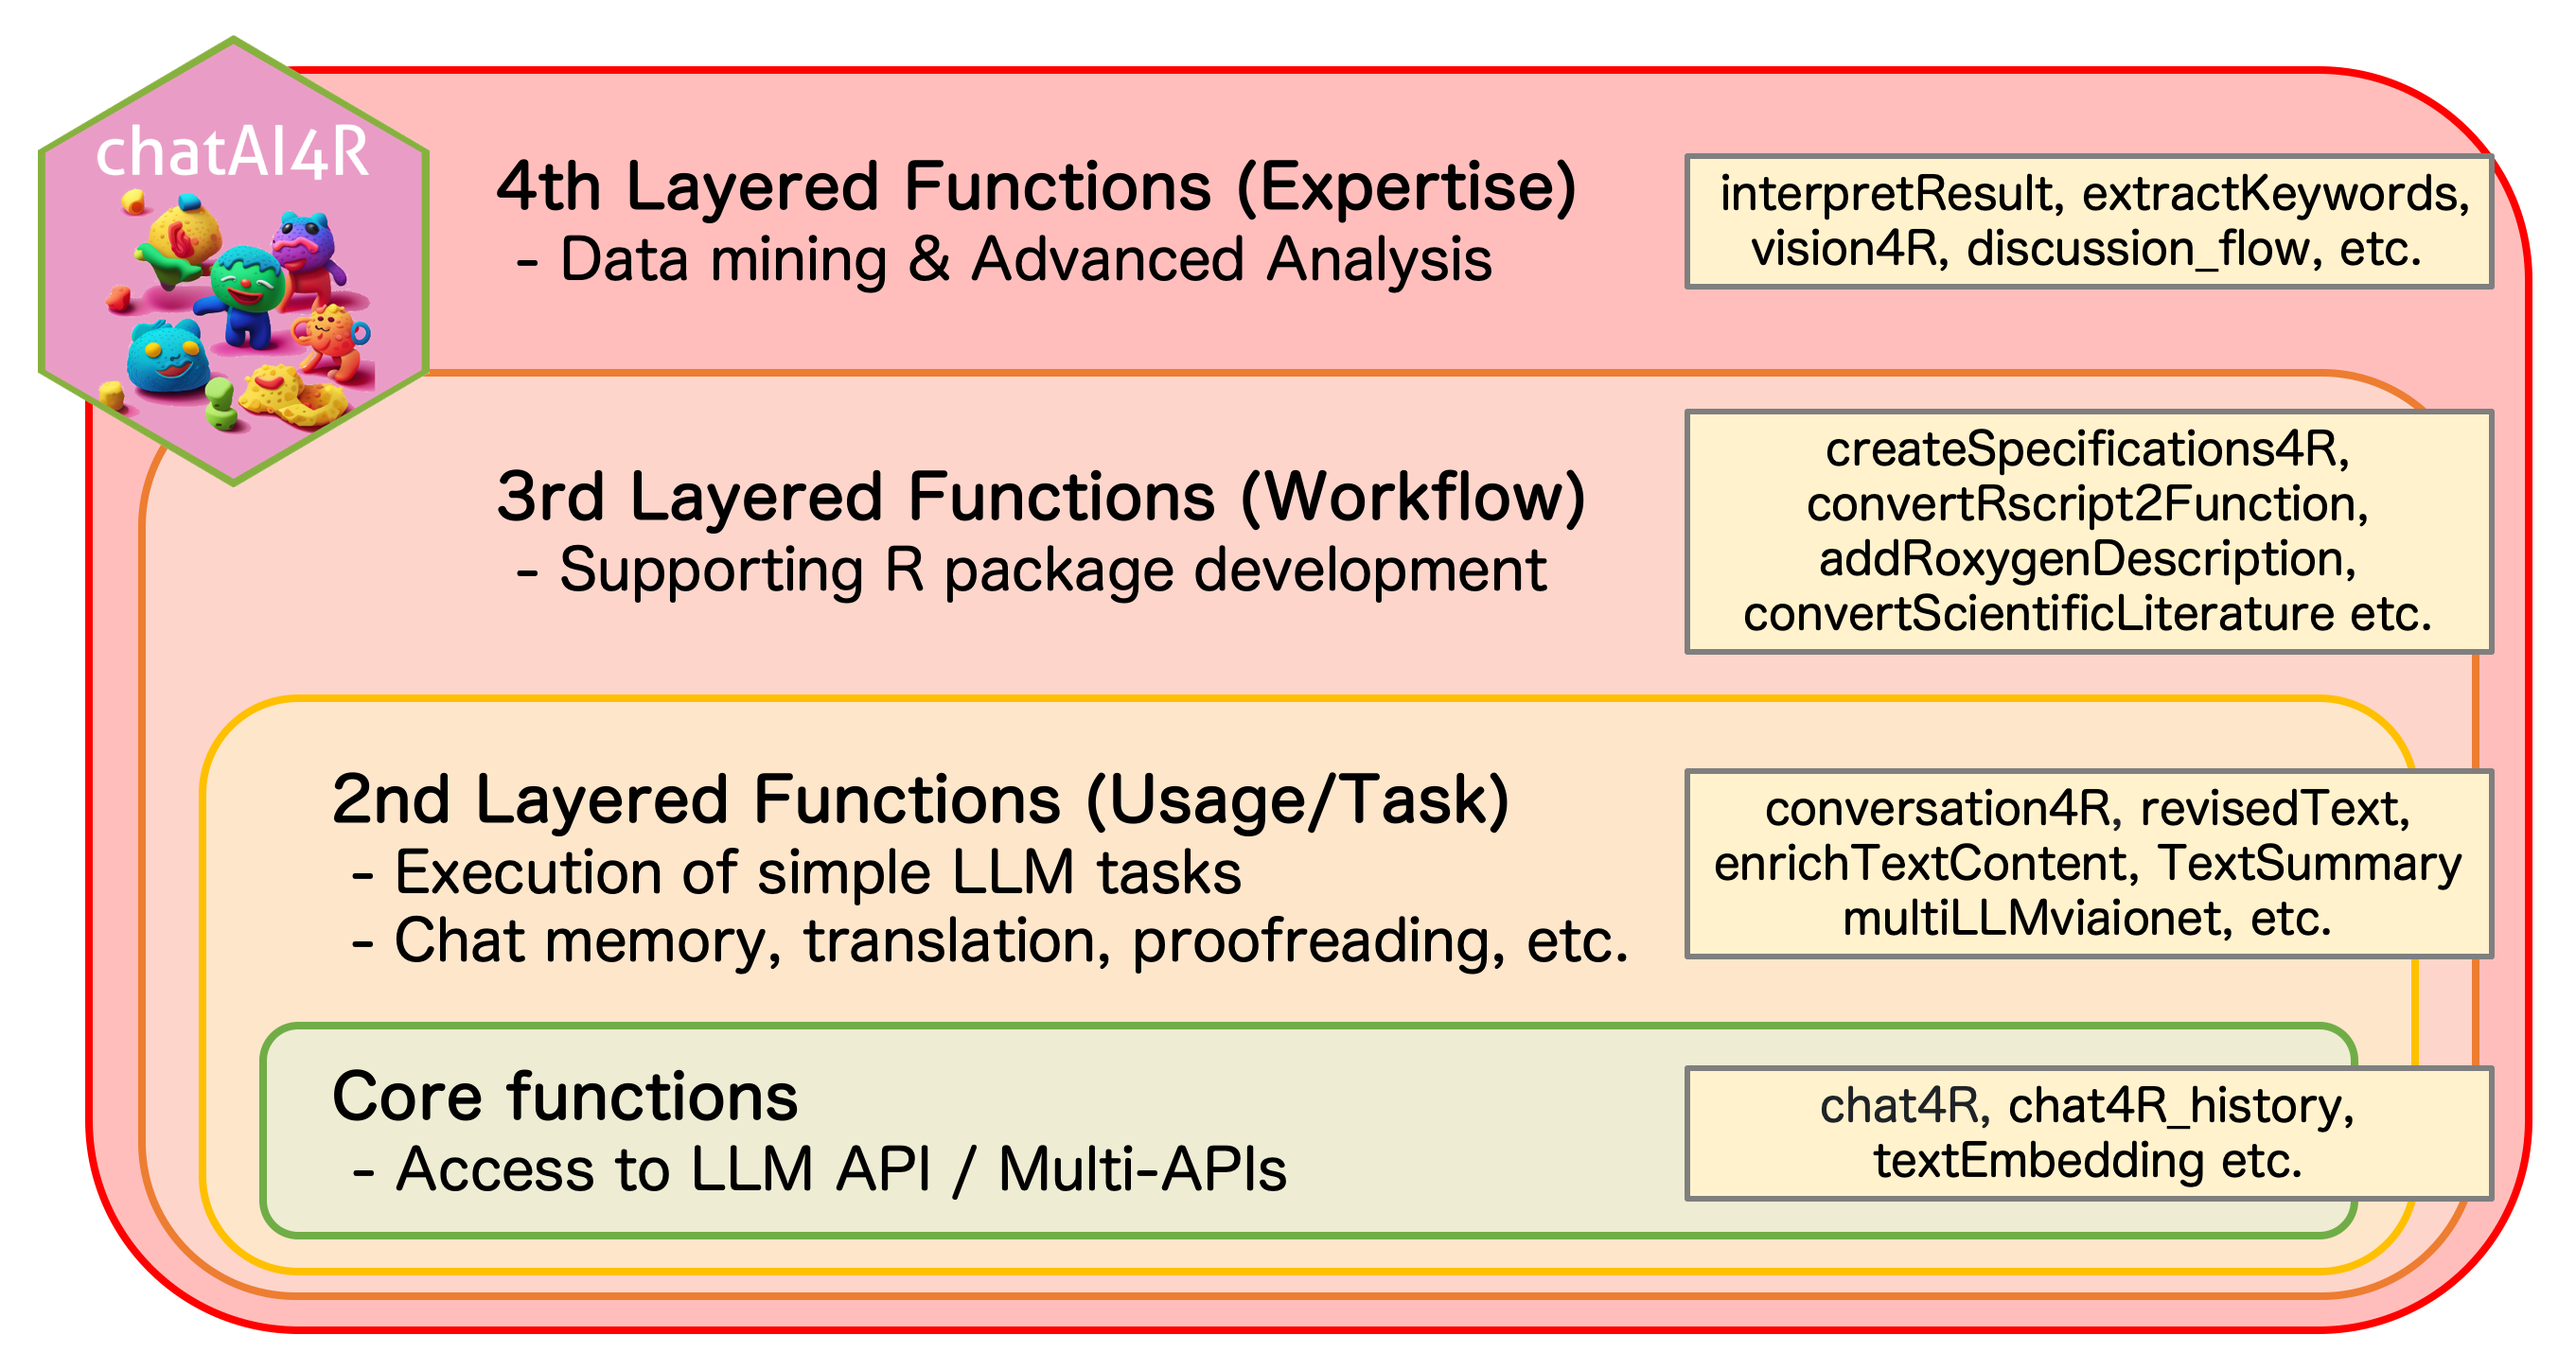
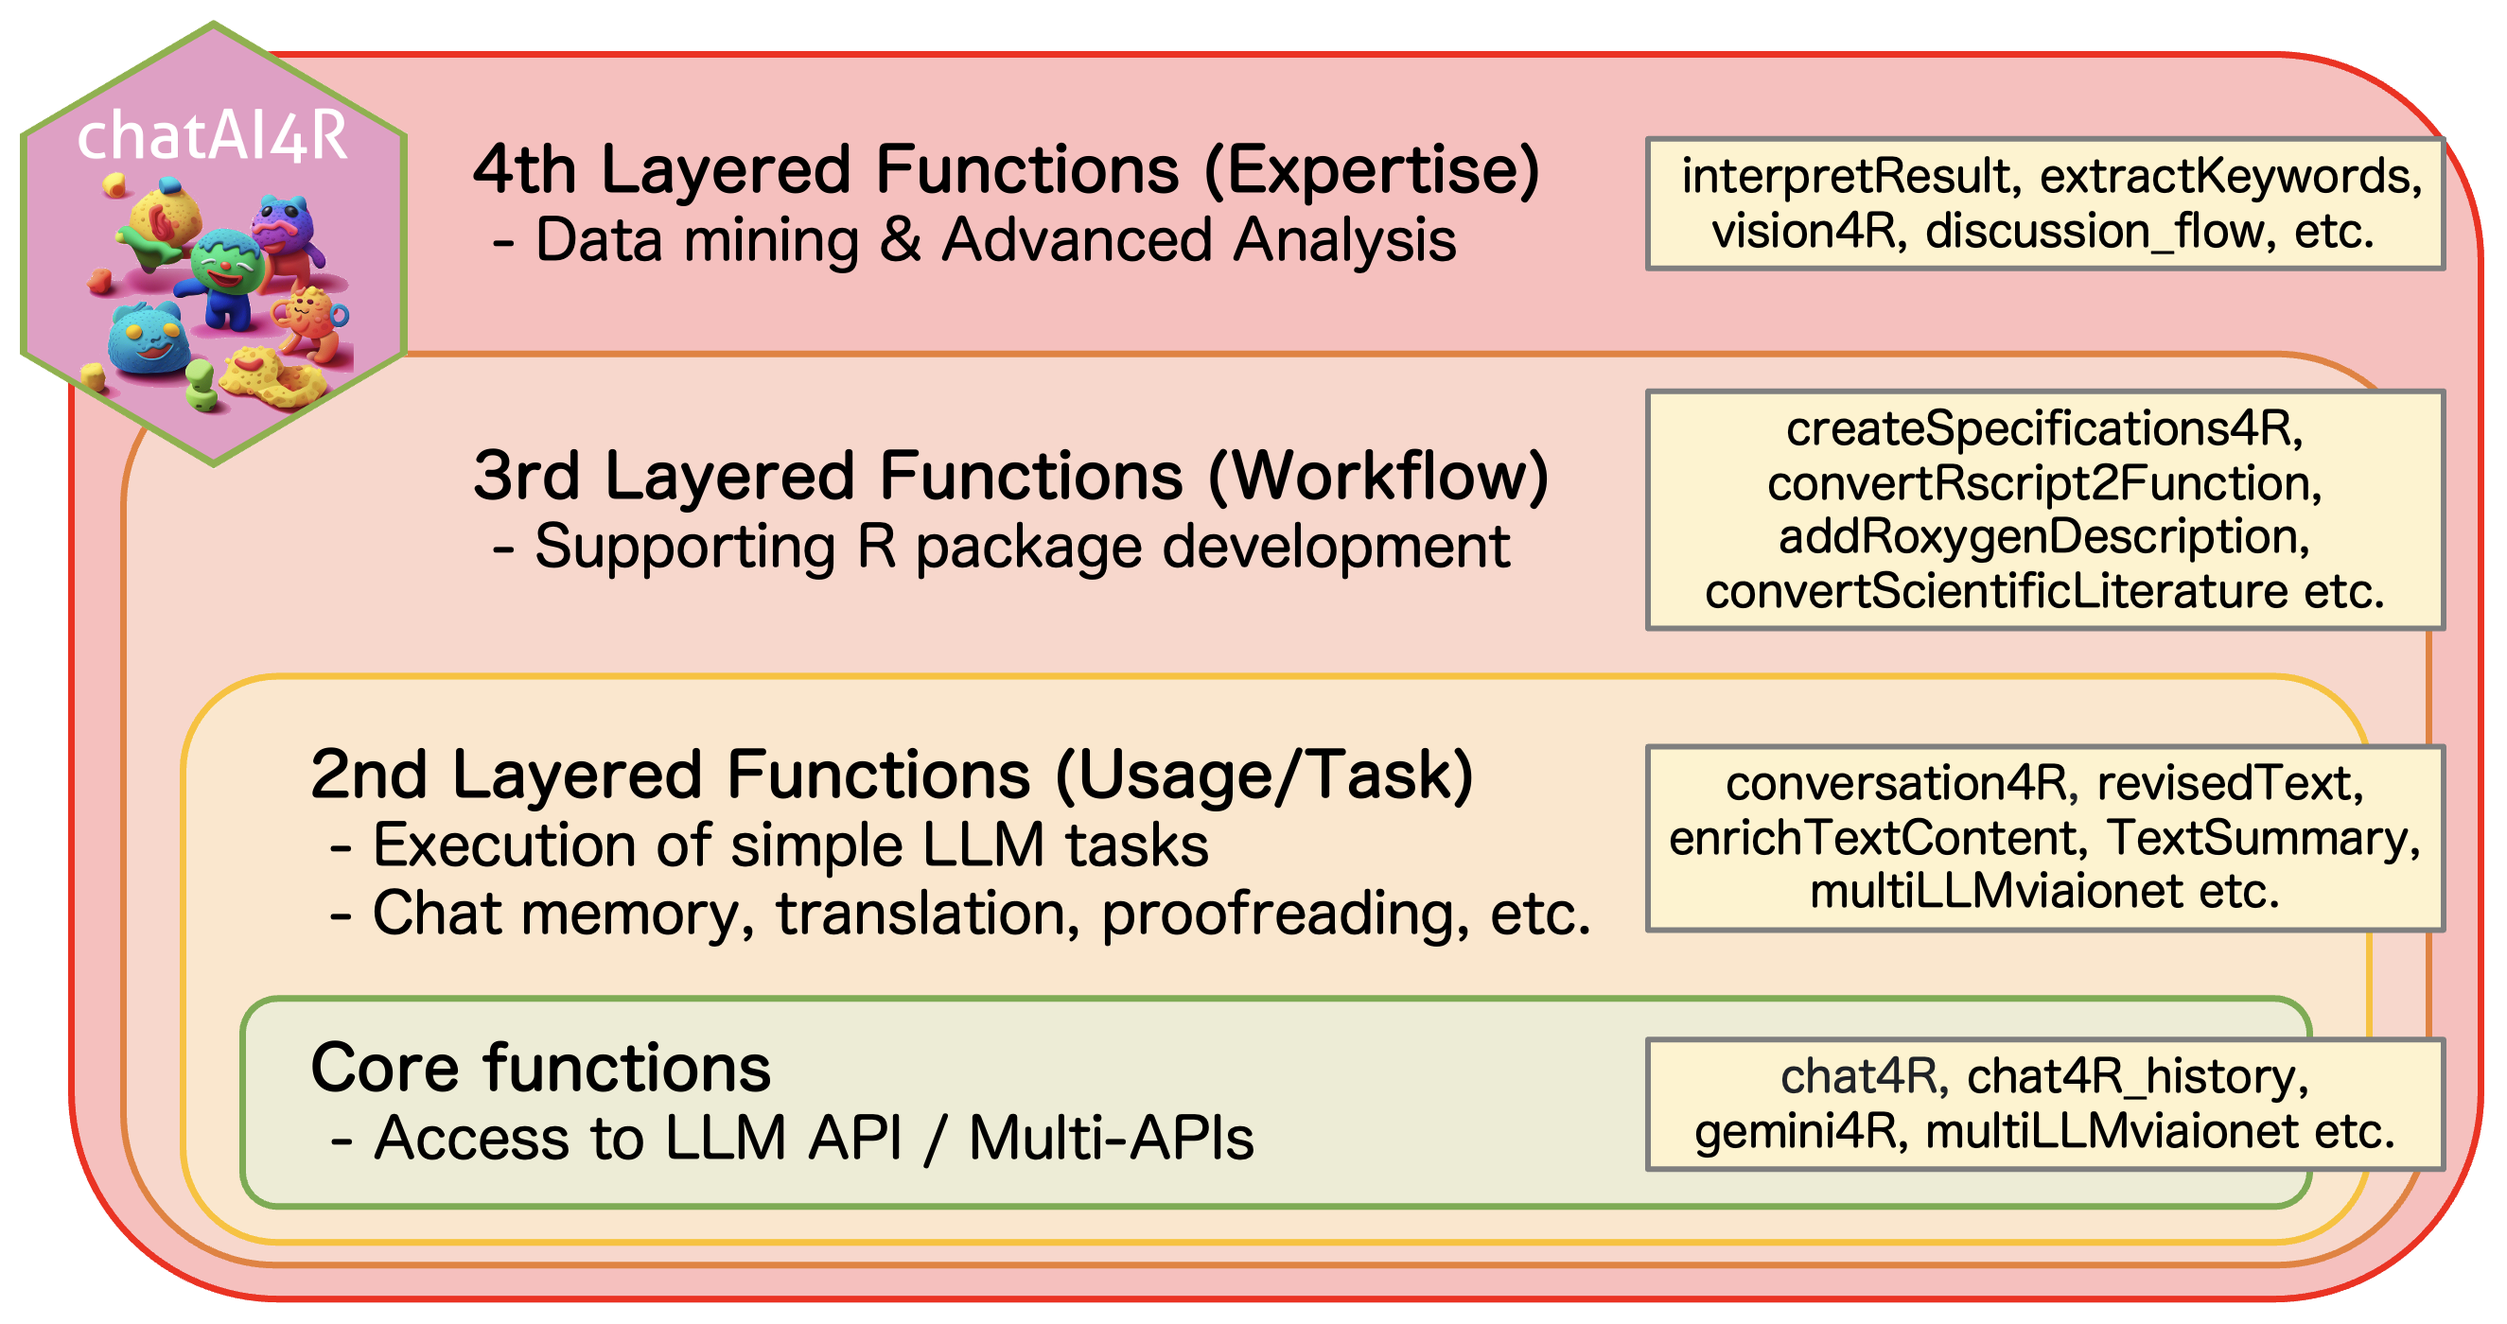
v1.x: JOSS review

Changed region(s): [[0.0, 0.0, 0.9902, 0.9829], [0.1857, 0.3379, 0.6189, 0.4607]]

diff --git a/paper/paper.md b/paper/paper.md
@@ -56,15 +56,17 @@ The package maintains production-level reliability through CRAN distribution, en
 
 The chatAI4R package implements a four-layered application architectural design that provides progressive functionality. This modular approach ensures accessibility for all users.
 
-The Core Functions (Layer 1) establish unified API interfaces for nine LLM platforms. The `chat4R()`, `gemini4R()`, and `multiLLMviaionet()` functions provide standardized access patterns while handling authentication, rate limiting, and error management.
+The Core Functions (Layer 1) establish unified API interfaces for multiple LLM platforms. The `chat4R()`, `chat4R_history()`, `gemini4R()`, `multiLLMviaionet()`, and related functions provide standardized access patterns while handling authentication, rate limiting, and error management.
 
-The Advanced Functions (Layer 2) introduce R-specific capabilities through intelligent prompt engineering. The `interpretResult()` function employs specialized templates for 13 analysis types, automatically generating domain-appropriate interpretations.
+The Advanced Functions (2nd Layered Functions, Usage/Task) enable execution of simple LLM tasks through intelligent prompt engineering. Functions such as `conversation4R()`, `revisedText()`, `enrichTextContent()`, `TextSummary()`, and `multiLLMviaionet()` provide chat memory management, translation, proofreading, and text processing capabilities.
 
-The Workflow Functions (Layer 3) implement the multi-agent collaboration system. The `discussion_flow_v1()` and `discussion_flow_v2()` architectures employ role-based prompt engineering where each agent maintains distinct personas, enabling iterative solution refinement.
+The Workflow Functions (3rd Layered Functions, Workflow) focus on supporting R package development. The `createSpecifications4R()`, `convertRscript2Function()`, `addRoxygenDescription()`, and `convertScientificLiterature()` functions provide comprehensive development automation, transforming LLMs into powerful assistants tailored for R programming workflows.
 
-The Integration Functions (Layer 4) provide connectivity with R ecosystem tools and development workflows. This layer facilitates the deployment of R-based web APIs by combining `chatAI4R` with the `plumber` package, allowing users to implement LLM-powered backend processing embedded in external platforms. Additionally, it supports GUI-based interactions, ensuring accessibility for users who prefer graphical interfaces over command-line operations.
+The Integration Functions (4th Layered Functions, Expertise) provide data mining and advanced analysis capabilities, while also providing connectivity with R ecosystem tools and development workflows. The `interpretResult()` function employs specialized templates for 13 analysis types, automatically generating domain-appropriate interpretations. The `extractKeywords()` extracts keywords from text, `vision4R()` enables image analysis via Vision API, and the multi-agent discussion system (`discussion_flow_v1()`, `discussion_flow_v2()`) employs role-based prompt engineering where each agent maintains distinct personas, enabling iterative solution refinement.
 
-The package employs defensive programming with comprehensive error handling, input validation, and graceful degradation when API services are unavailable. Package reliability is ensured through automated testing. Furthermore, to address the challenge of frequent API changes across multiple providers (OpenAI, Gemini, io.net, Replicate, Dify), chatAI4R employs a sustainable maintenance strategy combining user contributions with high-frequency, LLM-assisted autonomous code updates, ensuring long-term resilience.
+The package supports integration with six API platforms: OpenAI, Google Gemini, DeepL translation, Replicate, Dify, and IO.net Intelligence API. This comprehensive API connectivity ensures flexibility in model selection and deployment scenarios. The package also facilitates the deployment of R-based web APIs by combining `chatAI4R` with the `plumber` package, allowing users to implement LLM-powered backend processing embedded in external platforms. Additionally, it supports GUI-based interactions, ensuring accessibility for users who prefer graphical interfaces over command-line operations.
+
+The package employs defensive programming with comprehensive error handling, input validation, and graceful degradation when API services are unavailable. Package reliability is ensured through automated testing. Furthermore, to address the challenge of frequent API changes across these platforms, chatAI4R employs a sustainable maintenance strategy combining user contributions with high-frequency, LLM-assisted autonomous code updates, ensuring long-term resilience.
 
 # Usage
 
